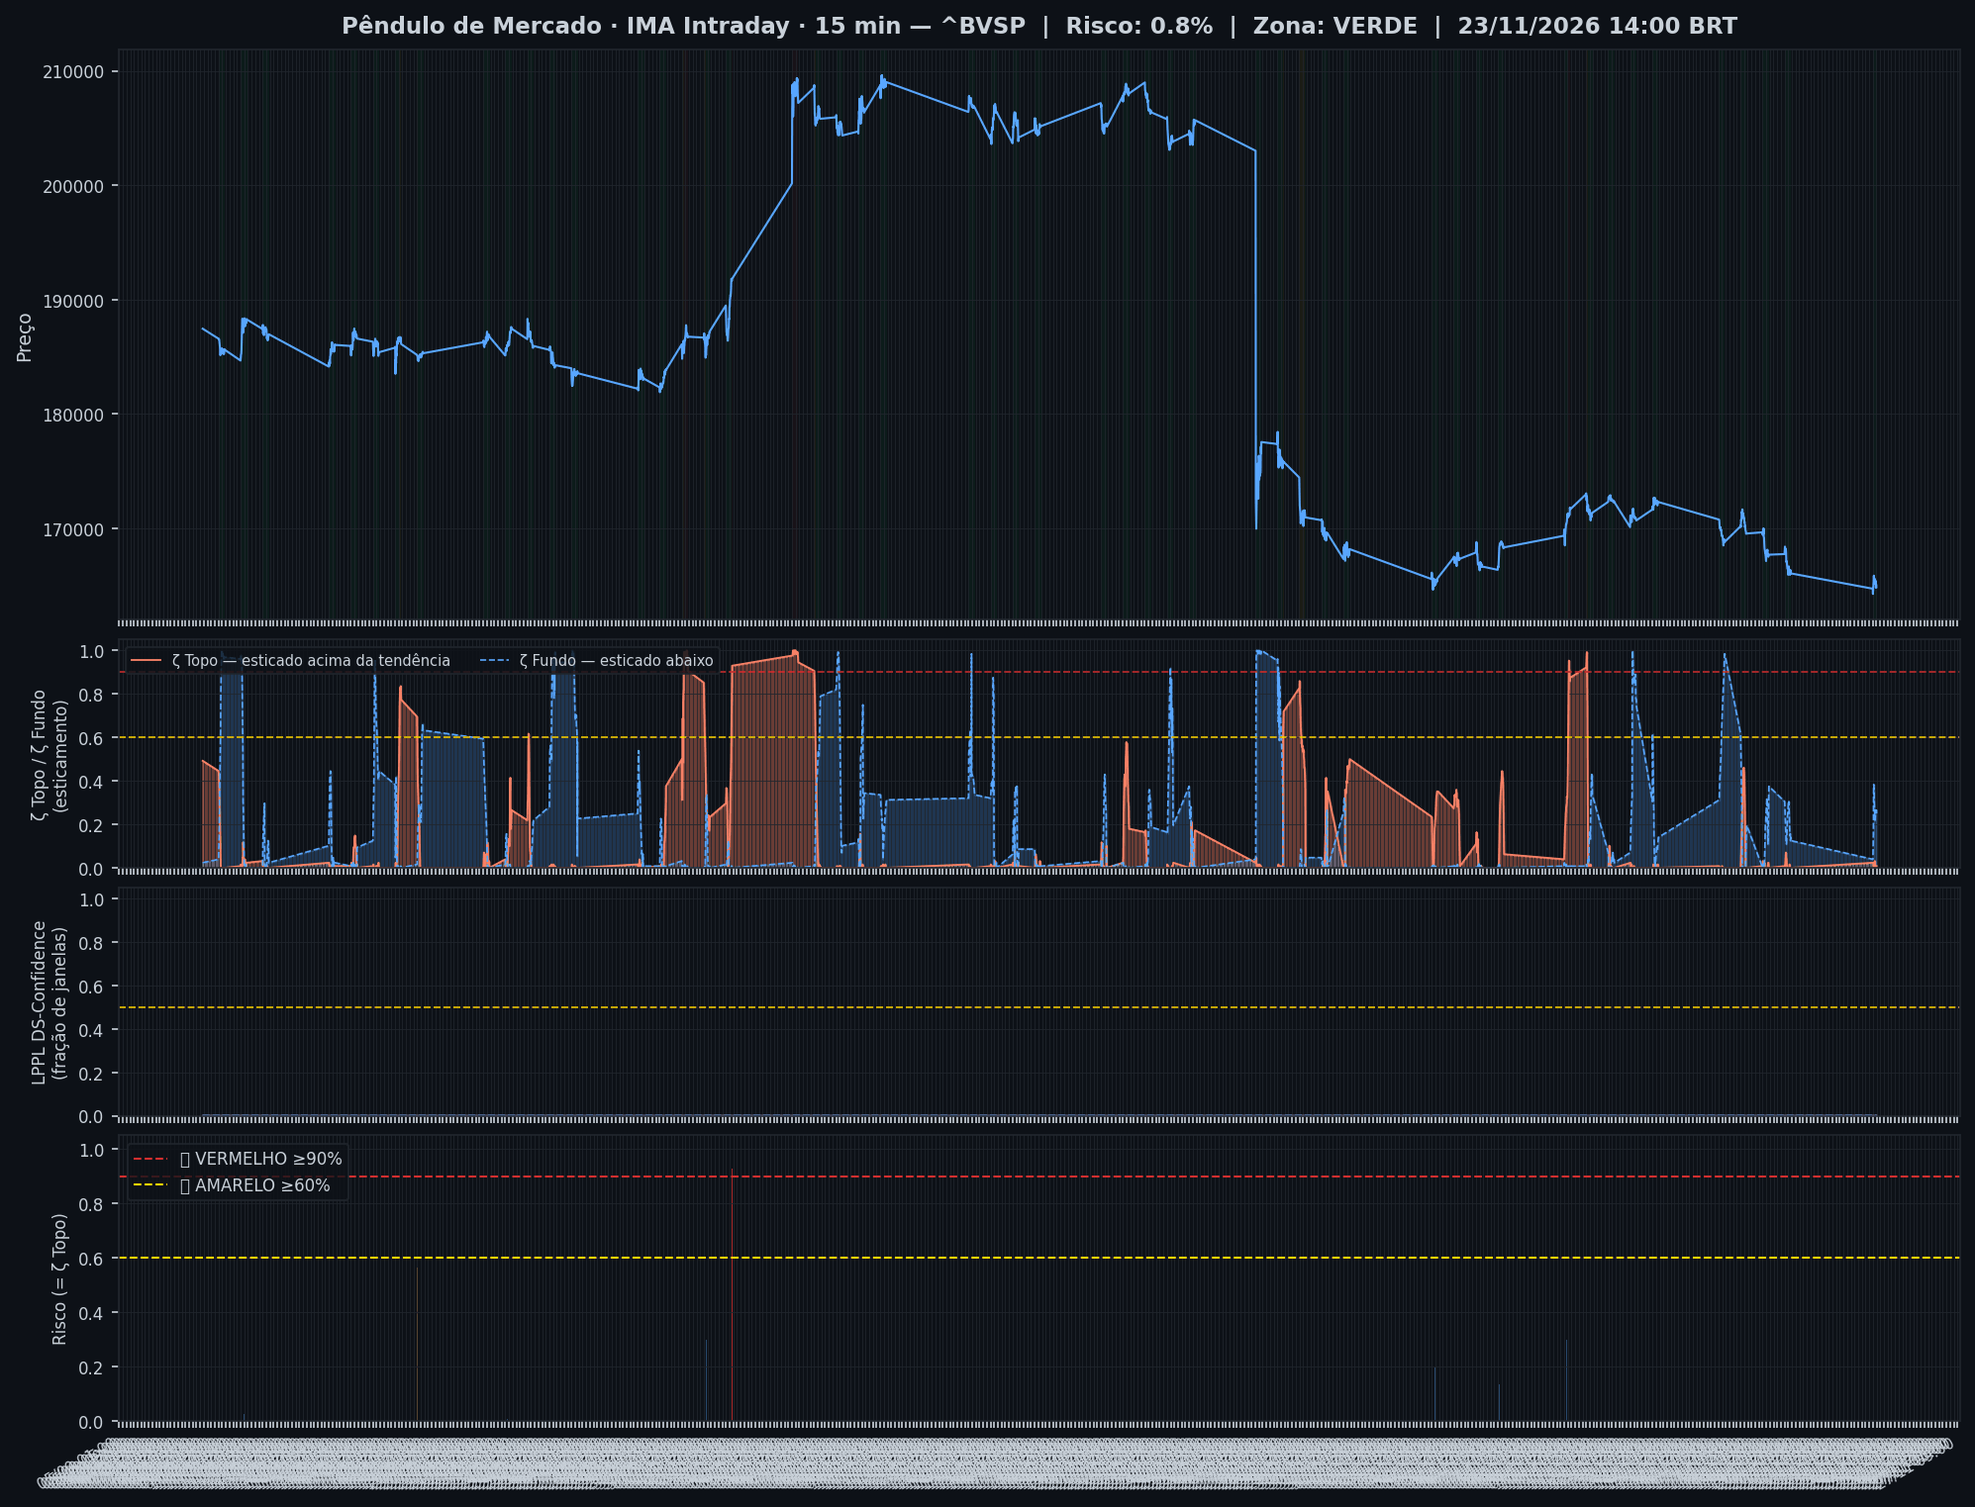
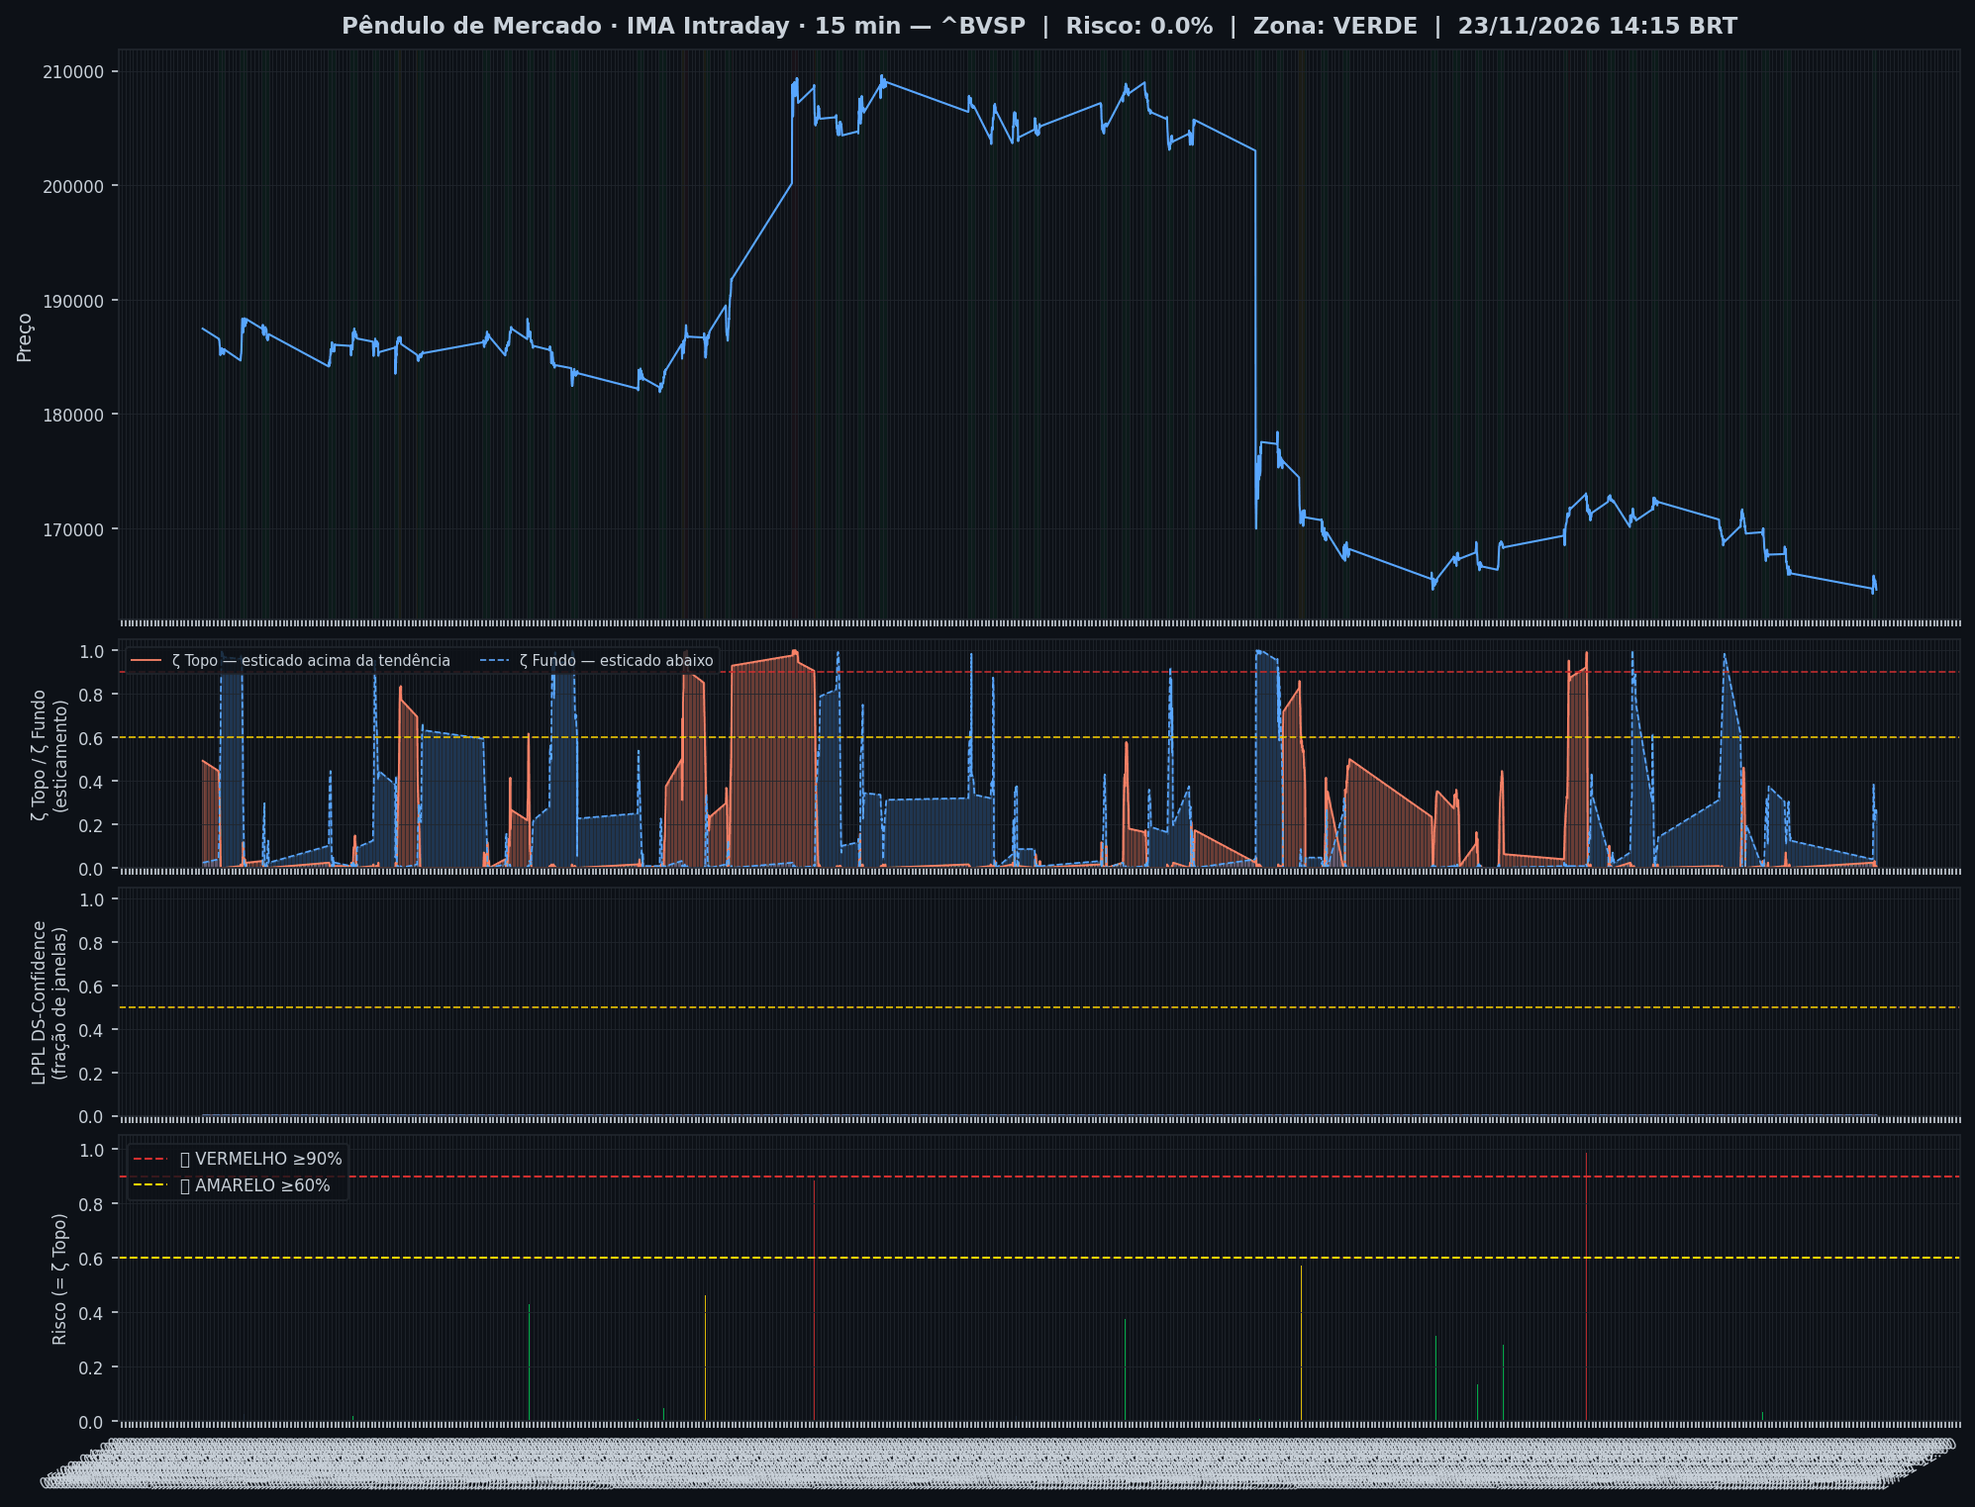
🤖 Auto: Sinal 23/11/2026 15:00

Changed region(s): [[0.0932, 0.432, 0.9634, 0.5863], [0.0311, 0.9258, 0.9945, 0.9875]]

diff --git a/content/intraday/2026-11-23.md b/content/intraday/2026-11-23.md
@@ -1,13 +1,13 @@
 ---
-title: "🟢 Intraday 23/11/2026 14:00 BRT — VERDE"
+title: "🟢 Intraday 23/11/2026 14:15 BRT — VERDE"
 date: 2026-11-23
 tags: [intraday]
 ---
 
-> [!success] Onde o mercado está agora (23/11 14:00, candles de 15 min): **🟢 Calmo**
+> [!success] Onde o mercado está agora (23/11 14:15, candles de 15 min): **🟢 Calmo**
 > `Pânico ◀────────●────────────▶ Euforia`
 >
-> **O Ibovespa cai 1,60% agora, aos 164.850 pontos.** O preço está dentro da sua faixa normal, sem excesso para cima nem para baixo.
+> **O Ibovespa cai 1,74% agora, aos 164.620 pontos.** O preço está dentro da sua faixa normal, sem excesso para cima nem para baixo.
 > No gráfico diário: 🌱 Fundo se desfazendo.
 >
 > *Leitura educacional baseada em 26 anos de dados. Não é recomendação de investimento.*
@@ -20,7 +20,7 @@ tags: [intraday]
 > | 📍 **Sinais** | hoje: nenhum sinal | [abrir](sinais-topo-fundo/) |
 > | 🧪 **Placar ao vivo** | 1 operação(ões), 0 com lucro, soma -0,8% | [abrir](operacoes/) |
 
-> [!success] IMA Intraday · 15 min (23/11 14:00): 🟢 **VERDE** — Risco 1% · ＝ +0 p.p. vs leitura anterior
+> [!success] IMA Intraday · 15 min (23/11 14:15): 🟢 **VERDE** — Risco 0% · ▼ -1 p.p. vs leitura anterior
 > `░░░░░░░░░░░░░░░░░░░░`
 > Preço na faixa normal em torno da tendência.
 
@@ -32,13 +32,13 @@ tags: [intraday]
 >
 > *Leitura educacional baseada em 26 anos de dados, não recomendação. [Como usar](../metodologia/crise#3-como-usar-na-prática).*
 
-| Indicador — IMA Intraday · 15 min (23/11 14:00) | Valor |
+| Indicador — IMA Intraday · 15 min (23/11 14:15) | Valor |
 |---|---|
-| 🔴 ζ Topo — preço esticado acima da tendência | **1%** |
+| 🔴 ζ Topo — preço esticado acima da tendência | **0%** |
 | 🔵 ζ Fundo — preço esticado abaixo da tendência | 25% |
 | 🫧 LPPL bolha — alta super-exponencial (risco de crash) | 0% |
 | 🫧 LPPL antibolha — queda super-exponencial (risco de repique) | 0% |
-| 📊 Ibovespa | 164.850 pts |
+| 📊 Ibovespa | 164.620 pts |
 
 ![Gráfico do sinal](../graficos/sinal_intraday.png)
 
@@ -46,6 +46,7 @@ tags: [intraday]
 
 | Data | Zona | Evento | Risco | ζ Topo | ζ Fundo | LPPL |
 |---|---|---|---|---|---|---|
+| 2026-11-23 14:15 | 🟢 VERDE |  | **0%** | 0% | 25% | 0% |
 | 2026-11-23 14:00 | 🟢 VERDE |  | **1%** | 1% | 25% | 0% |
 | 2026-11-23 13:45 | 🟢 VERDE |  | **1%** | 1% | 27% | 0% |
 | 2026-11-23 13:30 | 🟢 VERDE |  | **1%** | 1% | 25% | 0% |
@@ -75,44 +76,43 @@ tags: [intraday]
 | 2026-11-19 14:30 | 🟢 VERDE |  | **0%** | 0% | 30% | 0% |
 | 2026-11-19 14:15 | 🟢 VERDE |  | **0%** | 0% | 30% | 0% |
 | 2026-11-19 14:00 | 🟢 VERDE |  | **0%** | 0% | 30% | 0% |
-| 2026-11-19 13:45 | 🟢 VERDE |  | **0%** | 0% | 29% | 0% |
 
 <small>Destaques: 🟡 ≥ 60% · 🔴 ≥ 90% (Risco e ζ Topo) · 🔵 ≥ 60% · 🔪 ≥ 90% (ζ Fundo) · 🫧 ≥ 30% · 🫧🔴 ≥ 50% (LPPL)</small>
 
 ## Monitor Multi-Ativo
 
-**4% dos ativos em tensão** (0🔴 1🟡) · **4 com ζ Fundo alto** — quanto mais ativos disparam juntos, mais confiável o sinal.
+**0% dos ativos em tensão** (0🔴 1🟡) · **4 com ζ Fundo alto** — quanto mais ativos disparam juntos, mais confiável o sinal.
 
 > [!danger] Em destaque no multi-ativo
-> 🔪 **COPEL** ζ Fundo 92% · 🔵 **EQUATORIAL** ζ Fundo 82% · 🔵 **TELEF BRASIL** ζ Fundo 82% · 🔵 **WEG** ζ Fundo 75% · 🟡 **SABESP** ζ Topo 63%
+> 🔪 **TELEF BRASIL** ζ Fundo 98% · 🔪 **COPEL** ζ Fundo 95% · 🔵 **WEG** ζ Fundo 79% · 🔵 **EQUATORIAL** ζ Fundo 77%
 
 | Zona | Ativo | Setor | ζ Topo | ζ Fundo |
 |---|---|---|---|---|
-| 🟢 | **COPEL** | Energia | 0.0% | 🔪 **92.2%** |
-| 🟢 | **EQUATORIAL** | Energia | 0.0% | 🔵 **82.0%** |
-| 🟢 | **TELEF BRASIL** | Outros | 0.0% | 🔵 **82.0%** |
-| 🟢 | **WEG** | Industrial | 0.0% | 🔵 **75.0%** |
-| 🟡 | **SABESP** | Saneamento | 🟡 **63.3%** | 0.0% |
-| 🟢 | **USD/BRL** | Câmbio | 46.9% | 0.0% |
-| 🟢 | **BTGP BANCO** | Financeiro | 0.0% | 35.2% |
-| 🟢 | **LOCALIZA** | Aluguel | 0.0% | 35.2% |
+| 🟢 | **TELEF BRASIL** | Outros | 0.0% | 🔪 **98.4%** |
+| 🟢 | **COPEL** | Energia | 1.6% | 🔪 **95.3%** |
+| 🟢 | **WEG** | Industrial | 0.0% | 🔵 **78.9%** |
+| 🟢 | **EQUATORIAL** | Energia | 0.0% | 🔵 **77.3%** |
+| 🟡 | **SABESP** | Saneamento | 56.2% | 1.6% |
+| 🟢 | **USD/BRL** | Câmbio | 47.7% | 0.0% |
+| 🟢 | **BTGP BANCO** | Financeiro | 0.8% | 37.5% |
+| 🟢 | **LOCALIZA** | Aluguel | 0.0% | 37.5% |
 | 🟢 | **BRADESCO** | Financeiro | 0.8% | 32.0% |
-| 🟢 | **PRIO** | Petróleo | 0.0% | 29.7% |
-| 🟢 | **ITAUUNIBANCO** | Financeiro | 23.4% | 0.0% |
-| 🟢 | **GERDAU** | Siderurgia | 0.0% | 16.4% |
-| 🟢 | **AMBEV S/A** | Consumo | 0.8% | 14.1% |
-| 🟢 | **PETROBRAS** | Petróleo | 0.0% | 11.7% |
-| 🟢 | **PETROBRAS** | Petróleo | 0.0% | 10.2% |
-| 🟢 | **EMBRAER** | Outros | 8.6% | 0.0% |
-| 🟢 | **ITAUSA** | Financeiro | 0.0% | 7.8% |
-| 🟢 | **B3** | Financeiro | 5.5% | 7.8% |
-| 🟢 | **BRASIL** | Financeiro | 7.0% | 0.0% |
-| 🟢 | **RUMO S.A.** | Outros | 0.0% | 7.0% |
-| 🟢 | **REDE D OR** | Saúde | 0.8% | 4.7% |
-| 🟢 | **VIBRA** | Energia | 0.0% | 3.9% |
-| 🟢 | **AXIA ENERGIA** | Energia | 0.0% | 1.6% |
-| 🟢 | **ULTRAPAR** | Outros | 0.0% | 1.6% |
-| 🟢 | **VALE** | Mineração | 0.8% | 0.8% |
+| 🟢 | **PRIO** | Petróleo | 0.0% | 25.8% |
+| 🟢 | **ITAUUNIBANCO** | Financeiro | 19.5% | 0.8% |
+| 🟢 | **AMBEV S/A** | Consumo | 1.6% | 15.6% |
+| 🟢 | **ITAUSA** | Financeiro | 0.8% | 14.1% |
+| 🟢 | **PETROBRAS** | Petróleo | 0.0% | 13.3% |
+| 🟢 | **GERDAU** | Siderurgia | 0.0% | 11.7% |
+| 🟢 | **RUMO S.A.** | Outros | 0.0% | 10.9% |
+| 🟢 | **PETROBRAS** | Petróleo | 0.0% | 9.4% |
+| 🟢 | **B3** | Financeiro | 4.7% | 8.6% |
+| 🟢 | **EMBRAER** | Outros | 7.8% | 0.0% |
+| 🟢 | **BRASIL** | Financeiro | 6.2% | 0.0% |
+| 🟢 | **VIBRA** | Energia | 0.0% | 5.5% |
+| 🟢 | **REDE D OR** | Saúde | 0.0% | 3.9% |
+| 🟢 | **VALE** | Mineração | 1.6% | 0.0% |
+| 🟢 | **AXIA ENERGIA** | Energia | 0.8% | 1.6% |
+| 🟢 | **ULTRAPAR** | Outros | 0.8% | 0.0% |
 | 🟢 | **ENEVA** | Energia | 0.0% | 0.0% |
 | 🟢 | **SUZANO S.A.** | Papel/Celulose | 0.0% | 0.0% |
 
@@ -120,7 +120,7 @@ tags: [intraday]
 
 ![Monitor multi-ativo](../graficos/multi_intraday.png)
 
-*Página atualizada em 23/11/2026 14:45 BRT (leitura da barra de 2026-11-23 14:00 BRT).*
+*Página atualizada em 23/11/2026 15:00 BRT (leitura da barra de 2026-11-23 14:15 BRT).*
 
 > [!warning] O que este indicador não faz
 > Medido em 5 anos de Ibovespa, o ζ **não antecipa** topos nem fundos: a capacidade de separar o que sobe do que cai ficou em 0,49–0,52, e 0,50 é moeda jogada ao ar. Ele descreve o estado de agora; não é aviso do que vem. As zonas verde/amarelo/vermelho continuam na página como descrição desse estado — **não as use como sinal de entrada ou saída**.

diff --git a/content/index.md b/content/index.md
@@ -7,12 +7,12 @@ tags: [home]
 
 **As ondas do mercado, explicadas.** Leitura do Ibovespa com estatística de 26 anos, baseada no trabalho de pesquisadores e traders reconhecidos e adaptada por Jarbas Daniel da Costa.
 
-*Última atualização: 23/11/2026 14:45 BRT · Intraday 15min*
+*Última atualização: 23/11/2026 15:00 BRT · Intraday 15min*
 
-> [!success] Onde o mercado está agora (23/11 14:00, candles de 15 min): **🟢 Calmo**
+> [!success] Onde o mercado está agora (23/11 14:15, candles de 15 min): **🟢 Calmo**
 > `Pânico ◀────────●────────────▶ Euforia`
 >
-> **O Ibovespa cai 1,60% agora, aos 164.850 pontos.** O preço está dentro da sua faixa normal, sem excesso para cima nem para baixo.
+> **O Ibovespa cai 1,74% agora, aos 164.620 pontos.** O preço está dentro da sua faixa normal, sem excesso para cima nem para baixo.
 > No gráfico diário: 🌱 Fundo se desfazendo.
 >
 > *Leitura educacional baseada em 26 anos de dados. Não é recomendação de investimento.*
@@ -21,7 +21,7 @@ tags: [home]
 
 | Módulo | Agora | |
 |---|---|---|
-| 🌊 **Sinal IMA** | 🟢 VERDE · 🟢 calmo · ζ Topo 1% | [relatório](intraday/2026-11-23) |
+| 🌊 **Sinal IMA** | 🟢 VERDE · 🟢 calmo · ζ Topo 0% | [relatório](intraday/2026-11-23) |
 | 📈 **Tendência MME9** | Diário — fora<br>Semanal — fora | [abrir](operacoes/tendencia) |
 | 🎯 **Entradas do método** | 🟢 comprado: Diário · Semáforo N3 após ζ Fundo | [abrir](operacoes/entradas) |
 | 📍 **Sinais** | hoje: nenhum sinal | [abrir](sinais-topo-fundo/) |
@@ -50,26 +50,26 @@ tags: [home]
 > *Leitura educacional baseada em 26 anos de dados, não recomendação. [Como usar](metodologia/crise#3-como-usar-na-prática).*
 
 > [!info]- 🌊 Detalhes do Sinal IMA (indicadores e últimos 7 pregões)
-> > [!success] IMA Intraday · 15 min (23/11 14:00): 🟢 **VERDE** — Risco 1% · ＝ +0 p.p. vs leitura anterior
+> > [!success] IMA Intraday · 15 min (23/11 14:15): 🟢 **VERDE** — Risco 0% · ▼ -1 p.p. vs leitura anterior
 > > `░░░░░░░░░░░░░░░░░░░░`
 > > Preço na faixa normal em torno da tendência.
 >
 >
-> | Indicador — IMA Intraday · 15 min (23/11 14:00) | Valor |
+> | Indicador — IMA Intraday · 15 min (23/11 14:15) | Valor |
 > |---|---|
-> | 🔴 ζ Topo — preço esticado acima da tendência | **1%** |
+> | 🔴 ζ Topo — preço esticado acima da tendência | **0%** |
 > | 🔵 ζ Fundo — preço esticado abaixo da tendência | 25% |
 > | 🫧 LPPL bolha — alta super-exponencial (risco de crash) | 0% |
 > | 🫧 LPPL antibolha — queda super-exponencial (risco de repique) | 0% |
-> | 📊 Ibovespa | 164.850 pts |
+> | 📊 Ibovespa | 164.620 pts |
 >
-> **Multi-ativo:** 4% em tensão (0🔴 1🟡 de 27 ativos)
+> **Multi-ativo:** 0% em tensão (0🔴 1🟡 de 27 ativos)
 >
 > **Últimos 7 pregões**
 >
 > | Data | Zona | Risco | ζ Topo | ζ Fundo | LPPL |
 > |---|---|---|---|---|---|
-> | [23/11/2026](intraday/2026-11-23) | 🟢 VERDE | **1%** | 1% | 25% | 0% |
+> | [23/11/2026](intraday/2026-11-23) | 🟢 VERDE | **0%** | 0% | 25% | 0% |
 > | [19/11/2026](intraday/2026-11-19) | 🟢 VERDE | **0%** | 0% | 12% | 0% |
 >
 > <small>Destaques: 🟡 ≥ 60% · 🔴 ≥ 90% (Risco e ζ Topo) · 🔵 ≥ 60% · 🔪 ≥ 90% (ζ Fundo) · 🫧 ≥ 30% · 🫧🔴 ≥ 50% (LPPL)</small>

diff --git a/content/operacoes/entradas.md b/content/operacoes/entradas.md
@@ -84,7 +84,7 @@ description: "Compra depois de um sinal de fundo: Nadaraya no diário, semáforo
 > | Diário · Semáforo N3 após ζ Fundo | 07/07/26 a 172.021 | 10/08/26 a 172.021 | **+0,0%** | stop no preço de entrada |
 > | H4 · Semáforo N2 | 12/06/26 14h a 171.134 | 15/06/26 14h a 171.134 | **+0,0%** | stop no preço de entrada |
 >
-> <small>Atualizado 20/11 19:00 · checado no pregão às 14:15. Nota: ✅ passou no teste fora da amostra (walk-forward 2008–2026) · 🧪 em teste (H4, com aviso no Telegram) ou em observação (ζ, sem aviso) · 🧪 na tabela = operação do teste ao vivo.</small>
+> <small>Atualizado 20/11 19:00 · checado no pregão às 14:30. Nota: ✅ passou no teste fora da amostra (walk-forward 2008–2026) · 🧪 em teste (H4, com aviso no Telegram) ou em observação (ζ, sem aviso) · 🧪 na tabela = operação do teste ao vivo.</small>
 >
 > *Regras: depois de um sinal de fundo, o Diário entra quando o Nadaraya vira para cima; o Semanal e o H4 entram quando um fundo do semáforo fica fixo. Stop e saída de cada regra na [metodologia](metodologia/regras-de-operacao#entradas-do-método). Nenhuma regra de venda passou no teste. Os números do histórico têm viés de escolha (overfitting); o placar ao vivo é o que vale. Leitura educacional do método, não recomendação.*
 

diff --git a/content/integridade/index.md b/content/integridade/index.md
@@ -6,7 +6,7 @@ description: "O que foi conferido, contra qual fonte e quando — medido na hora
 tags: [integridade]
 ---
 
-*Pregão conferido: **19/11/2026**, com 54 tabelas no acervo · página gerada em 23/11/2026 14:45*
+*Pregão conferido: **19/11/2026**, com 54 tabelas no acervo · página gerada em 23/11/2026 15:00*
 
 O pregão conferido é o último **fechado e arquivado inteiro**, não o de hoje: enquanto o dia corre, só algumas tabelas estão gravadas, e conferir um dia pela metade produziria alarme falso.
 
@@ -23,7 +23,7 @@ Esta página não declara que o site está correto. Ela **mede** e escreve o res
 | Tabelas com conteúdo fora da curva | nenhuma |
 | Páginas publicadas | 365 |
 | Conferências cruzadas das páginas | 71 certas, nenhuma divergência |
-| Página escrita mais recentemente | 23/11 14:45 |
+| Página escrita mais recentemente | 23/11 15:00 |
 | Páginas sem data no cabeçalho | 9 — cegas para a conferência de dado |
 
 ## 1 · Acervo do boletim diário

diff --git a/content/operacoes/ranking.md b/content/operacoes/ranking.md
@@ -56,7 +56,7 @@ description: "As regras de compra do site ordenadas pelo resultado, com treino, 
 > 
 > Operação **com 🧪** começou depois de **23/10/2026**, com as regras congeladas. É o único resultado sem nenhum ajuste ao passado, e é por ele que cada regra está sendo julgada.
 
-*Atualizado 23/11/2026 14:45 · histórico simulado com as regras congeladas em 23/10/2026 + placar ao vivo.*
+*Atualizado 23/11/2026 15:00 · histórico simulado com as regras congeladas em 23/10/2026 + placar ao vivo.*
 
 As regras de compra do site, **da que mais rendeu para a que menos rendeu**. O resultado é por operação, no índice à vista, sem custos e sem juros compostos (a soma é só a soma das operações). **Treino** = entradas de 2001 a 2013 e **teste** = 2014 em diante: uma regra só é confiável se ganhou nos dois. O único resultado sem nenhum ajuste ao histórico é o **placar ao vivo**.
 

diff --git a/content/historico.md b/content/historico.md
@@ -5,7 +5,7 @@ tags: [historico]
 
 # 📜 Histórico de leituras (v5)
 
-**2.532 leituras** desde 2026-07-03. Na página ficam os últimos 3 dias leitura por leitura e o resumo de cada dia anterior; o registro inteiro está no arquivo para baixar.
+**2.533 leituras** desde 2026-07-03. Na página ficam os últimos 3 dias leitura por leitura e o resumo de cada dia anterior; o registro inteiro está no arquivo para baixar.
 
 [**Baixar o histórico completo**](historico-completo.csv) (111 KB · abre no Excel e no LibreOffice)
 
@@ -16,6 +16,7 @@ tags: [historico]
 
 | Data | Modo | Zona | Risco | IMA | LPPL |
 |---|---|---|---|---|---|
+| 2026-11-23 14:15 | intraday | 🟢 VERDE | 0% | 0% | 0% |
 | 2026-11-23 14:00 | intraday | 🟢 VERDE | 1% | 1% | 0% |
 | 2026-11-23 13:45 | intraday | 🟢 VERDE | 1% | 1% | 0% |
 | 2026-11-23 13:30 | intraday | 🟢 VERDE | 1% | 1% | 0% |

diff --git a/content/linha-do-tempo/index.md b/content/linha-do-tempo/index.md
@@ -5,7 +5,7 @@ description: "Todo sinal, ordem, stop e aviso do Pêndulo de Mercado, do mais re
 tags: [eventos]
 ---
 
-*Atualizada 23/11/2026 14:45 BRT · a cada 15 min no pregão e às 19h.*
+*Atualizada 23/11/2026 15:00 BRT · a cada 15 min no pregão e às 19h.*
 
 Tudo o que o sistema fez ou detectou, **do mais recente para o mais antigo**: sinais de topo e fundo, ordens de compra e de venda armadas, compras, vendas, stops, avisos de 🚨 preço perto do nível e mudanças do Sinal IMA. Os **últimos 7 dias** ficam abertos; o resto, por **ano → mês → dia**.
 

diff --git a/content/avisos/index.md b/content/avisos/index.md
@@ -2,7 +2,7 @@
 title: "⚠ Avisos: o que saber antes de usar os números"
 ---
 
-*Gerado em 23/11/2026 14:45*
+*Gerado em 23/11/2026 15:00*
 
 Este site publica muitos números, e cada um tem uma limitação que importa na hora de
 decidir. As limitações estão escritas nas próprias páginas, mas quem chega direto numa
